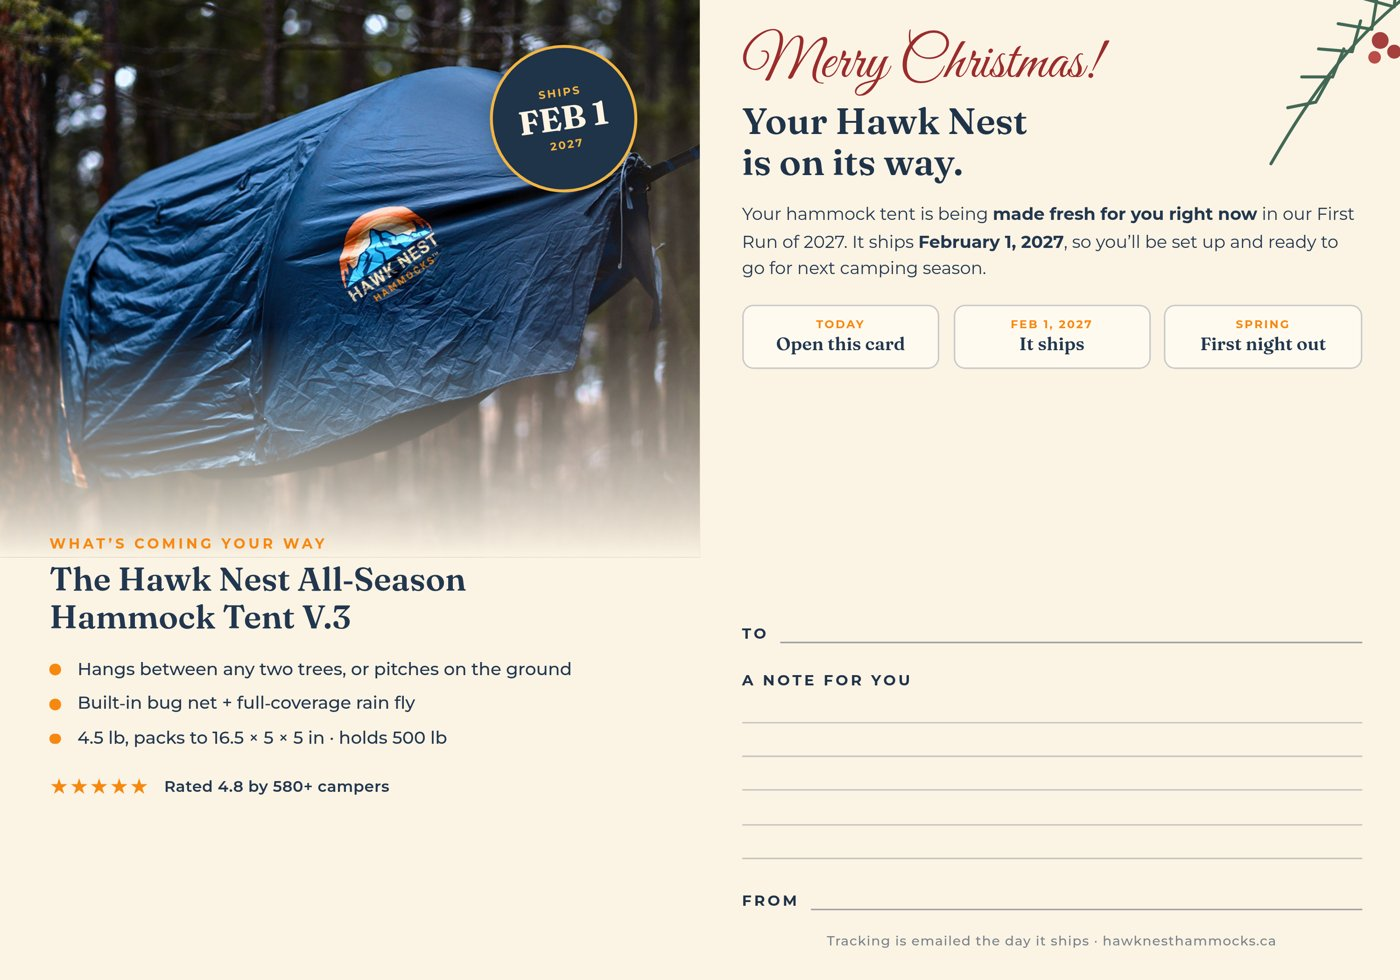
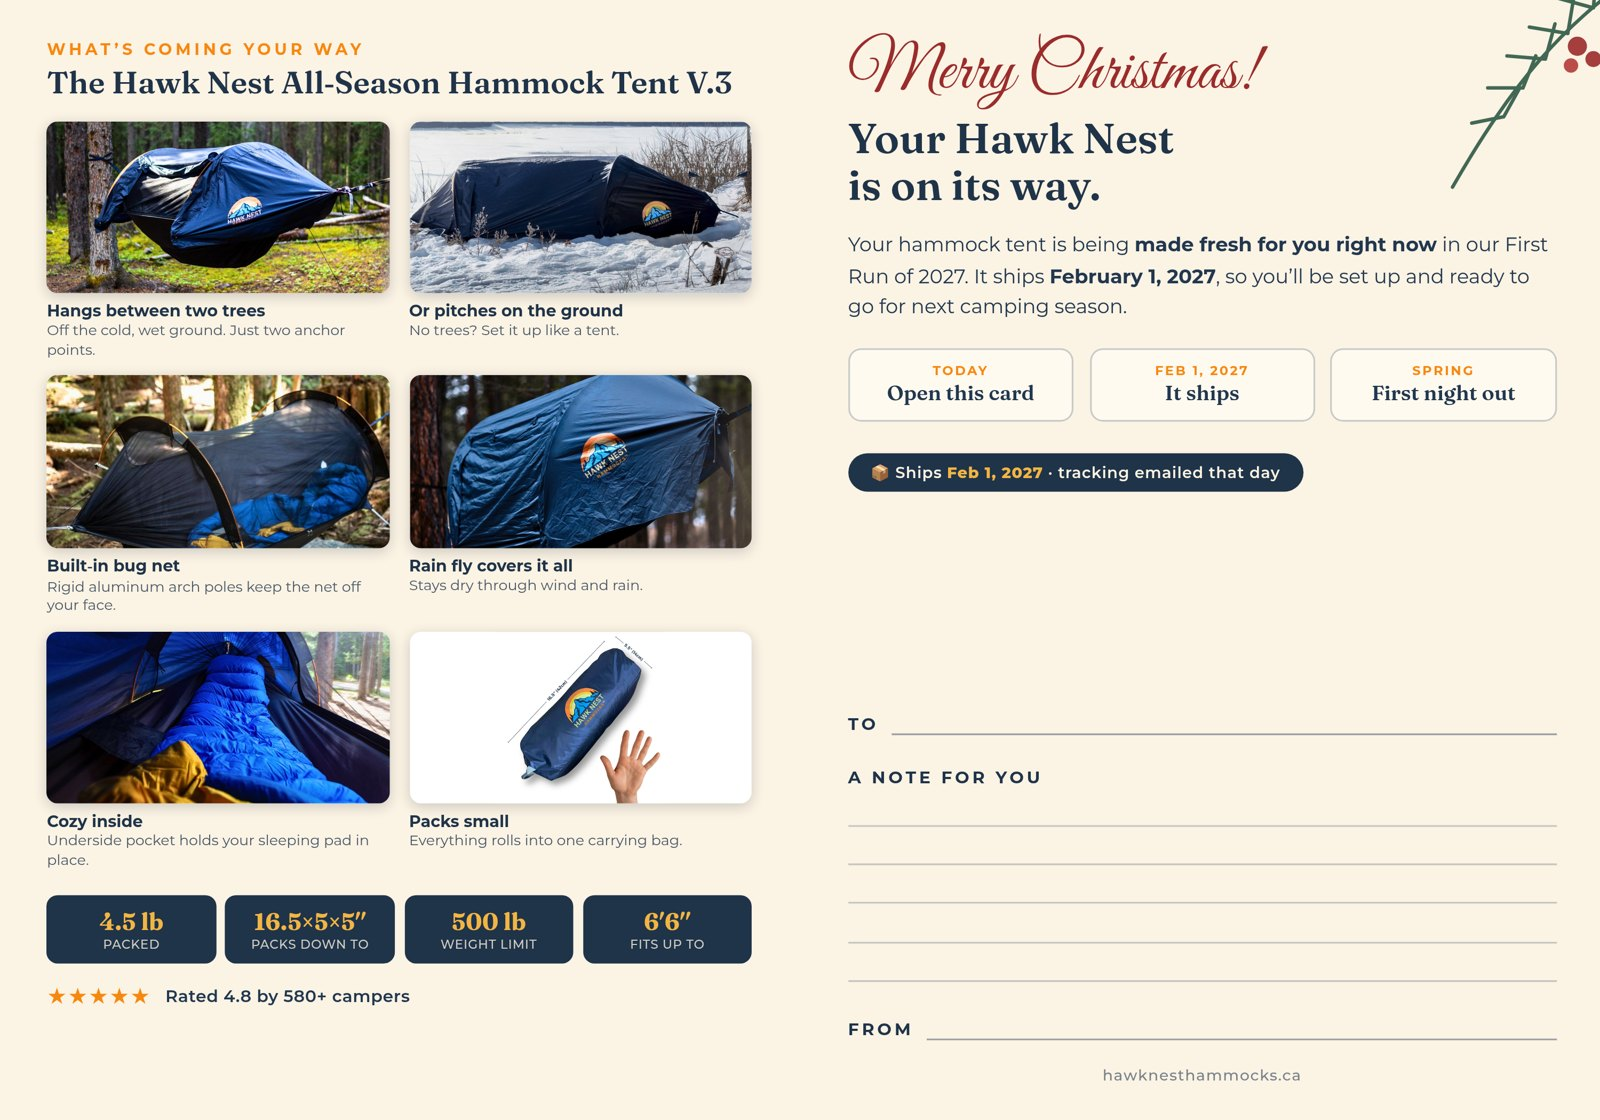
Hidden preview: xmas gift card v2 (more product photos/details) - preview/xmas-gift* only

diff --git a/preview/xmas-gift.html b/preview/xmas-gift.html
@@ -57,7 +57,7 @@ h2{font:600 42px/1.1 Fraunces,serif;color:var(--navy);margin:10px 0 16px}
 .deadline b{display:block;font:700 20px Fraunces;color:var(--gold)}
 .cardshow{background:var(--deep);color:var(--cream)}
 .cardshow h2{color:var(--cream)}.cardshow p.sub{color:rgba(253,244,227,.8)}
-.cardshow .row{display:grid;grid-template-columns:.62fr 1.38fr;gap:30px;margin-top:44px;align-items:center}
+.cardshow .row{display:grid;grid-template-columns:1fr 1fr;gap:30px;margin:44px auto 0;max-width:900px;align-items:start}.cardshow .row .wide{grid-column:1/-1}
 .cardshow img{border-radius:6px;box-shadow:0 24px 50px rgba(0,0,0,.5)}
 .cardshow .cap{text-align:center;font:600 13px Montserrat;color:rgba(253,244,227,.7);margin-top:14px}
 .feat{display:grid;grid-template-columns:repeat(4,1fr);gap:18px;margin-top:40px}
@@ -98,7 +98,7 @@ footer .wrap{display:flex;justify-content:space-between;gap:20px;flex-wrap:wrap;
  .stage .env{width:165px;height:116px;right:auto;left:0;bottom:30px}.stage .env:after{height:70px}.stage .env b{font-size:20px;left:14px;bottom:10px}
  .stage .tag{right:auto;left:0;top:14px;font-size:11.5px;max-width:150px;padding:10px 12px}
  section{padding:56px 0}h2{font-size:30px}
- .honest .grid,.cardshow .row,.deadline{grid-template-columns:1fr;gap:26px}
+ .honest .grid,.deadline{grid-template-columns:1fr;gap:26px}.cardshow .row{gap:14px}
  .honest .pics{height:300px}
  .steps,.revgrid{grid-template-columns:1fr;gap:16px}
  .feat{grid-template-columns:1fr 1fr}
@@ -144,8 +144,8 @@ footer .wrap{display:flex;justify-content:space-between;gap:20px;flex-wrap:wrap;
 </div></section>
 
 <section class="cardshow"><div class="wrap center"><div class="eyebrow">The gift card</div><h2>Something real to unwrap</h2>
- <p class="sub">A folded 5×7 card on heavy matte stock, mailed in a red envelope. Inside: what’s coming, when it ships, and room for your note.</p>
- <div class="row"><div><img src="xmas-gift-assets/card-front.jpg" alt="Gift card front"><div class="cap">Front</div></div><div><img src="xmas-gift-assets/card-inside.jpg" alt="Gift card inside with To, From and note lines"><div class="cap">Inside: write your own note</div></div></div>
+ <p class="sub">A folded 5×7 card on heavy matte stock, mailed in a red envelope. It shows them exactly what’s coming: real photos, everything in the box, the specs, when it ships, and room for your note.</p>
+ <div class="row"><div><img src="xmas-gift-assets/card-front.jpg" alt="Gift card front"><div class="cap">Front</div></div><div><img src="xmas-gift-assets/card-back.jpg" alt="Gift card back: what’s in the box"><div class="cap">Back: what’s in the box</div></div><div class="wide"><img src="xmas-gift-assets/card-inside.jpg" alt="Gift card inside: product photos, specs and note lines"><div class="cap">Inside: photos and specs on the left, your note on the right</div></div></div>
 </div></section>
 
 <section><div class="wrap center"><div class="eyebrow" style="color:var(--orange)">What they’re getting</div><h2>The Hawk Nest All‑Season Hammock Tent V.3</h2>
